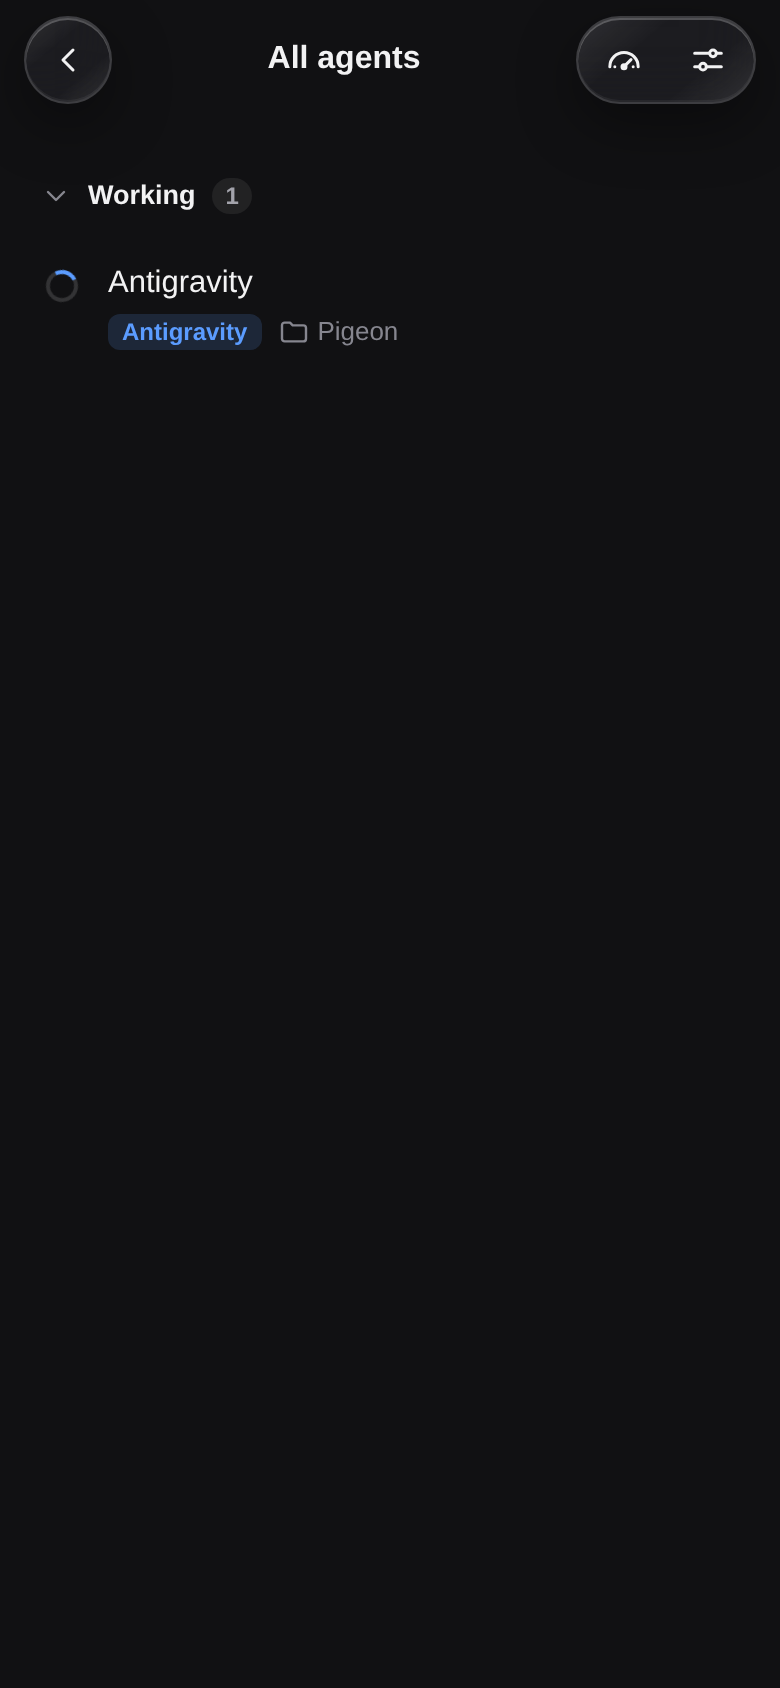
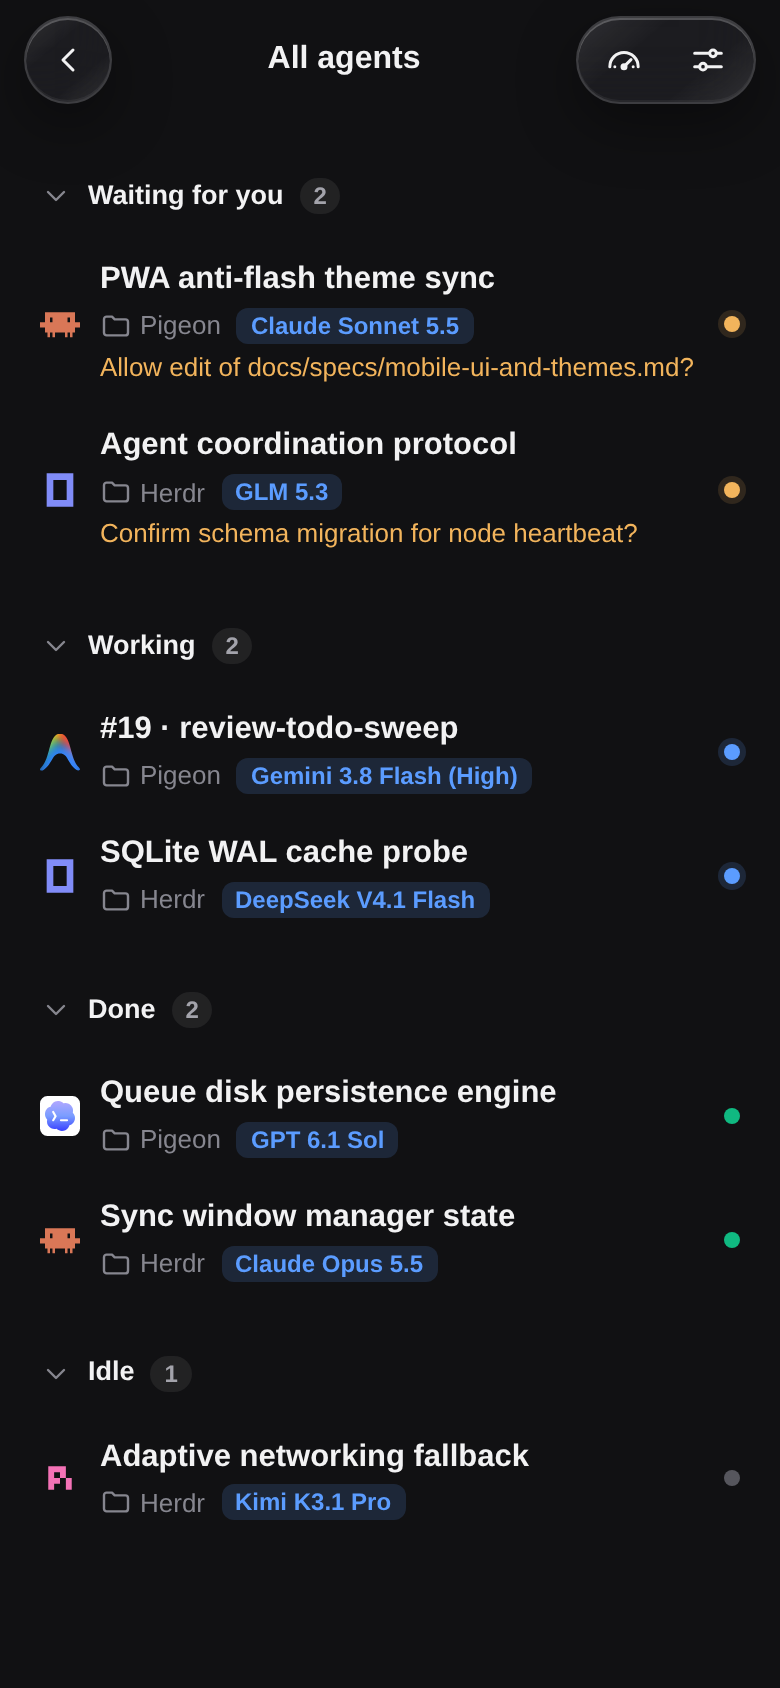
docs(showcase): refresh 3x2 screenshot grid with 2026 models and clean mock data

diff --git a/README.md b/README.md
@@ -23,30 +23,14 @@ A small daemon runs alongside Herdr on your computer and serves the app over you
   </picture>
   &nbsp;
   <picture>
-    <source media="(prefers-color-scheme: dark)" srcset="docs/images/session-dark.png">
-    <img src="docs/images/session-light.png" width="260" alt="Follow along in a clean chat feed with tasks and tool calls">
-  </picture>
-</p>
-<p align="center">
-  <picture>
-    <source media="(prefers-color-scheme: dark)" srcset="docs/images/prompt-dark.png">
-    <img src="docs/images/prompt-light.png" width="260" alt="Approve command permissions and answer questions with a tap">
-  </picture>
-  &nbsp;
-  <picture>
-    <source media="(prefers-color-scheme: dark)" srcset="docs/images/diff-dark.png">
-    <img src="docs/images/diff-light.png" width="260" alt="Inspect per-file additions, deletions, and unified patch diffs">
-  </picture>
-  &nbsp;
-  <picture>
-    <source media="(prefers-color-scheme: dark)" srcset="docs/images/queue-dark.png">
-    <img src="docs/images/queue-light.png" width="260" alt="Queue follow-up prompts while an agent works, with instant undo">
-  </picture>
-</p>
-<p align="center">
-  <picture>
     <source media="(prefers-color-scheme: dark)" srcset="docs/images/commands-dark.png">
     <img src="docs/images/commands-light.png" width="260" alt="Trigger slash commands and project skills right from the composer">
+  </picture>
+</p>
+<p align="center">
+  <picture>
+    <source media="(prefers-color-scheme: dark)" srcset="docs/images/diff-dark.png">
+    <img src="docs/images/diff-light.png" width="260" alt="Inspect commands and tool execution history with file diffs">
   </picture>
   &nbsp;
   <picture>
